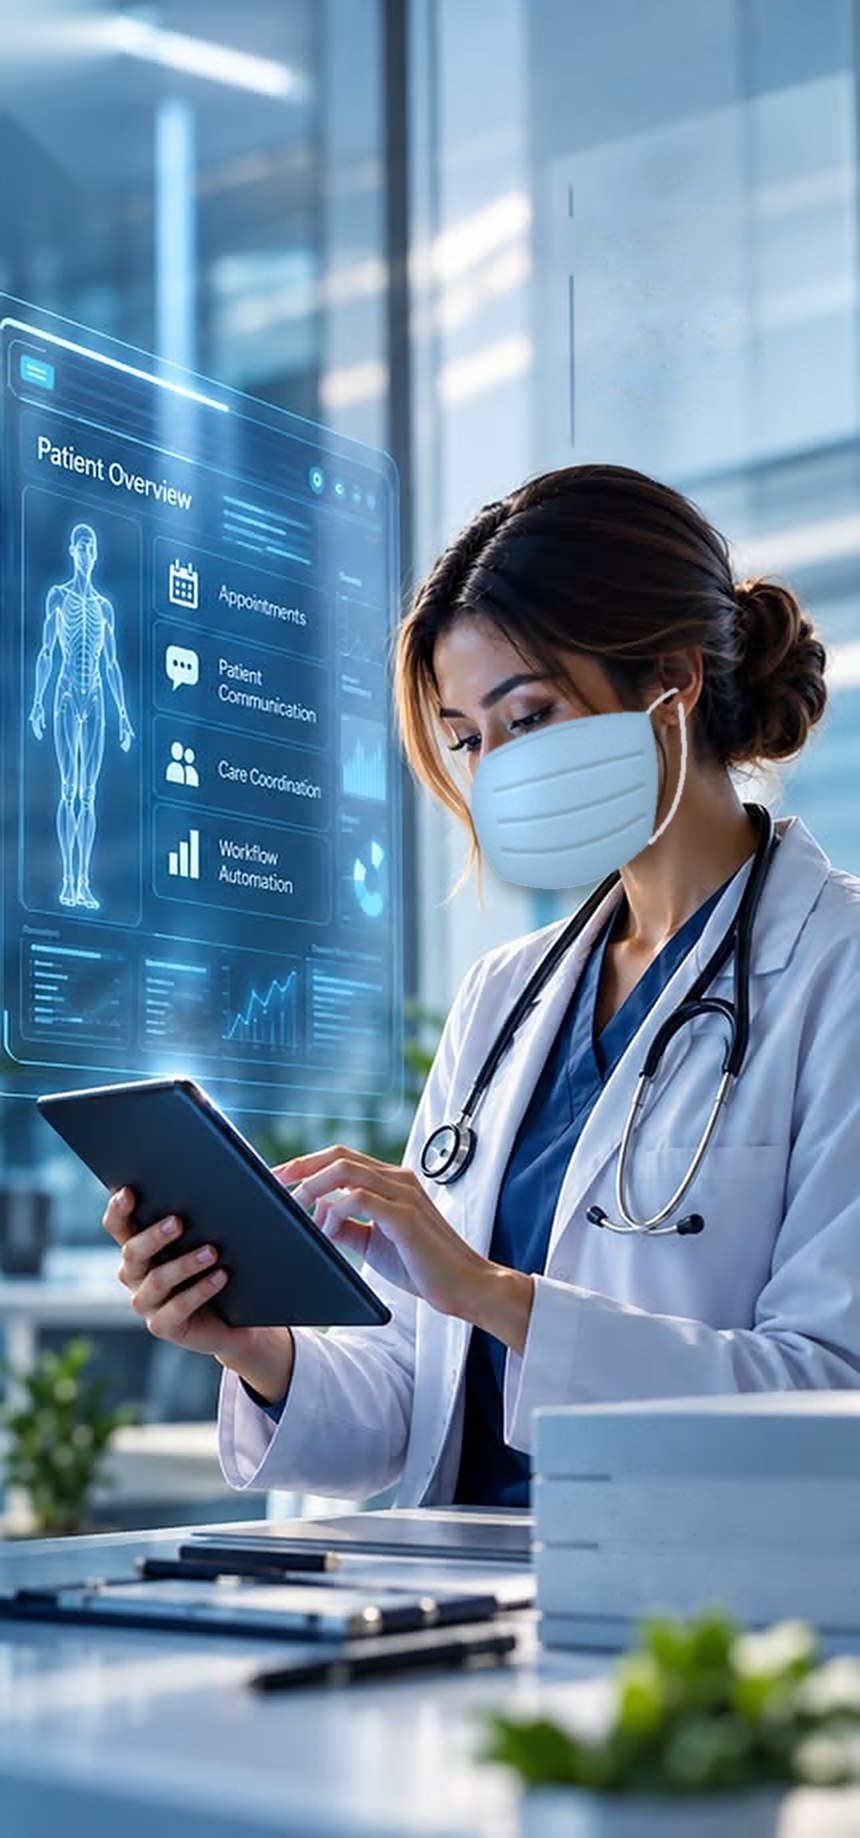
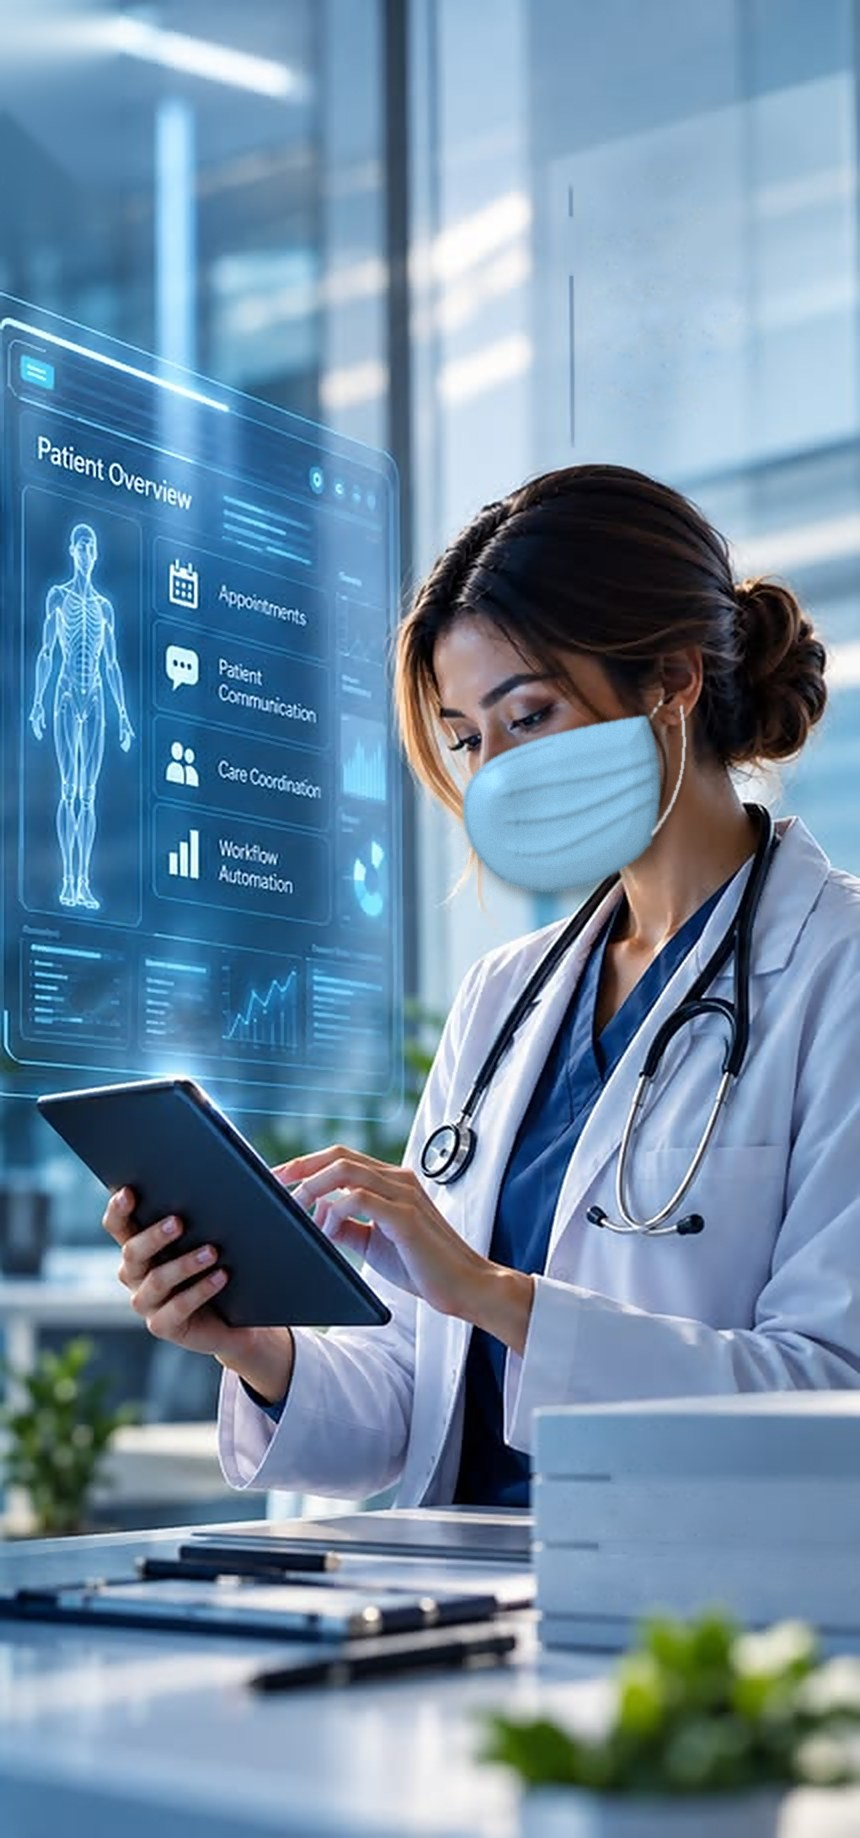
Make the face mask look more realistic
Redraw the mask as a lit 3D surface instead of a flat shape: a rounded
dome lifted over the nose, soft folded pleats that gather towards the
ear loop, shading from the window light, non-woven fabric texture,
stitched side hems, a nose-wire crease, contact shadows on the face and
neck, a thin elastic loop partly under the hair, and grain/softness
matched to the photo.

Claude-Session: https://claude.ai/code/session_01XAwcbFu3nbYNf1n8L2jrXr

Changed region(s): [[0.514, 0.3721, 0.8163, 0.4962]]

diff --git a/scripts/add-face-mask.py b/scripts/add-face-mask.py
@@ -1,87 +1,161 @@
 """
 Draws a surgical face mask over the doctor's nose, mouth and chin in the hero photo.
 
-    python3 scripts/add-face-mask.py <unmasked-photo.jpg> src/assets/photos/doctor.jpg
+    python3 scripts/add-face-mask.py <unmasked-photo.jpg> <output.jpg>
 
+The mask is modelled as a height field (a soft dome lifted over the nose, with folded
+pleats), lit from the window on the left, then given non-woven texture, stitched hems,
+contact shadows and an elastic ear loop, and finally softened to match the photo.
 Coordinates are for the 860x1838 doctor photo. Needs opencv-python and numpy.
 """
 import cv2, numpy as np, sys
+
 SRC, OUT = sys.argv[1], sys.argv[2]
 img = cv2.imread(SRC).astype(np.float32)
 H, W = img.shape[:2]
+yy, xx = np.mgrid[0:H, 0:W].astype(np.float32)
 
-def bez(p0, c, p1, n=60):
+
+def bez(p0, c, p1, n=120):
     t = np.linspace(0, 1, n)[:, None]
-    return (1 - t) ** 2 * np.array(p0) + 2 * (1 - t) * t * np.array(c) + t ** 2 * np.array(p1)
+    return (1 - t) ** 2 * np.array(p0, np.float32) + 2 * (1 - t) * t * np.array(c, np.float32) + t ** 2 * np.array(p1, np.float32)
 
-# mask outline (image coords) — face is in three-quarter view, tilted down-left
-L0, R0 = (484, 756), (648, 712)      # top: over the nose bridge -> towards the ear
-L1, R1 = (500, 878), (650, 842)      # bottom: under the chin -> jaw
-top    = bez(L0, (556, 712), R0)
-bottom = bez(L1, (585, 910), R1)
-left   = bez(L0, (452, 808), L1)     # bulges out over the nose
-right  = bez(R0, (666, 774), R1)
+
+def bez3(p0, c0, c1, p1, n=120):
+    t = np.linspace(0, 1, n)[:, None]
+    p0, c0, c1, p1 = (np.array(p, np.float32) for p in (p0, c0, c1, p1))
+    return (1 - t) ** 3 * p0 + 3 * (1 - t) ** 2 * t * c0 + 3 * (1 - t) * t ** 2 * c1 + t ** 3 * p1
+
+
+# ---------------- outline ----------------
+# three-quarter view, head tilted down-left. Top edge peaks over the nose bridge,
+# sags slightly across the cheek; bottom wraps under the chin and along the jaw.
+TL, TR = (482, 768), (646, 716)
+BL, BR = (502, 880), (650, 844)
+top = bez3(TL, (494, 752), (560, 728), TR)
+bottom = bez3(BL, (548, 906), (618, 884), BR)
+left = bez3(TL, (452, 790), (458, 850), BL)       # spans from the nose tip to the chin
+right = bez3(TR, (662, 750), (664, 812), BR)
 poly = np.vstack([top, right, bottom[::-1], left[::-1]]).astype(np.int32)
 
-alpha = np.zeros((H, W), np.float32)
-cv2.fillPoly(alpha, [poly], 1.0)
+inside = np.zeros((H, W), np.uint8)
+cv2.fillPoly(inside, [poly], 1, cv2.LINE_AA)
+dist = cv2.distanceTransform(inside, cv2.DIST_L2, 5)
 
-# ---- fabric colour with soft shading ----
-yy, xx = np.mgrid[0:H, 0:W].astype(np.float32)
-u = np.clip((xx - 450) / 230, 0, 1)            # 0 at the nose side, 1 at the ear side
-v = np.clip((yy - 700) / 200, 0, 1)
-base = np.array([238, 206, 164], np.float32)   # BGR light surgical blue
-light = 1.06 - 0.16 * u - 0.10 * v             # window light from the left/top
-# the fabric curves away under the chin and at the cheek
-dist = cv2.distanceTransform((alpha > 0).astype(np.uint8), cv2.DIST_L2, 5)
-edge_shade = 1 - 0.10 * np.exp(-dist / 10)
-# the nose pushes the fabric out: a soft highlight ridge near the profile side
-ridge = np.exp(-((xx - 512) ** 2) / (2 * 22 ** 2)) * np.exp(-((yy - 790) ** 2) / (2 * 45 ** 2))
-light = light + 0.10 * ridge
-fabric = base[None, None, :] * (light * edge_shade)[..., None]
+# ---------------- height field ----------------
+# rounded dome: steep near the edges, flat in the middle
+h = np.sqrt(np.clip(dist / 26.0, 0, 1)) * 10.0
+# the nose pushes the fabric out on the profile side
+h += 9.0 * np.exp(-(((xx - 500) / 26) ** 2 + ((yy - 790) / 34) ** 2))
+# the cheek side turns away from the camera
+h -= 4.0 * np.clip((xx - 560) / 90, 0, 1)
 
-# subtle weave noise so it doesn't look flat
-rng = np.random.default_rng(3)
-noise = cv2.GaussianBlur(rng.normal(0, 1, (H, W)).astype(np.float32), (0, 0), 0.7) * 3.0
-fabric += noise[..., None]
+# pleats: three folds that bunch together towards the ear loop
+pleat_lines = []
+for f, depth in ((0.27, 1.9), (0.50, 2.2), (0.73, 1.8)):
+    t = np.linspace(0.0, 1.0, 120)
+    tp = bez3(TL, (494, 752), (560, 728), TR)
+    bp = bez3(BL, (548, 906), (618, 884), BR)
+    # folds sit closer together near the ear (fabric gathered by the loop)
+    ff = f + (0.5 - f) * 0.28 * t[:, None]
+    line = tp + (bp - tp) * ff
+    line[:, 1] += 2.5 * np.sin(t * np.pi * 2.3 + f * 7)  # a little irregular, like real cloth
+    pleat_lines.append(line)
+    m = np.zeros((H, W), np.uint8)
+    cv2.polylines(m, [line.astype(np.int32)], False, 1, 1, cv2.LINE_AA)
+    d = cv2.distanceTransform(1 - m, cv2.DIST_L2, 5)
+    # asymmetric fold: sharp drop just below the crease, gentle slope above
+    below = (yy > np.interp(xx, line[:, 0], line[:, 1])).astype(np.float32)
+    fold = np.where(below > 0, np.exp(-(d / 3.0) ** 2), np.exp(-(d / 9.0) ** 2))
+    h += depth * fold * (inside > 0)
 
-# ---- pleats: three soft folds running across ----
-pleat_dark = np.zeros((H, W), np.float32)
-pleat_light = np.zeros((H, W), np.float32)
-for f in (0.30, 0.54, 0.76):
-    t = np.linspace(0.04, 0.97, 80)
-    tp = bez(L0, (556, 712), R0, 80)[(t * 79).astype(int)]
-    bp = bez(L1, (585, 910), R1, 80)[(t * 79).astype(int)]
-    line = (tp + (bp - tp) * f).astype(np.int32)
-    cv2.polylines(pleat_dark, [line], False, 1.0, 3, cv2.LINE_AA)
-    cv2.polylines(pleat_light, [line + np.array([0, 4])], False, 1.0, 2, cv2.LINE_AA)
-pleat_dark = cv2.GaussianBlur(pleat_dark, (0, 0), 1.6)
-pleat_light = cv2.GaussianBlur(pleat_light, (0, 0), 1.4)
-fabric *= (1 - 0.16 * pleat_dark)[..., None]
-fabric += (22 * pleat_light)[..., None]
+h = cv2.GaussianBlur(h, (0, 0), 1.2)
 
-# ---- nose wire along the top edge ----
+# ---------------- lighting ----------------
+gx = cv2.Sobel(h, cv2.CV_32F, 1, 0, ksize=3) / 8.0
+gy = cv2.Sobel(h, cv2.CV_32F, 0, 1, ksize=3) / 8.0
+n = np.dstack([-gx, -gy, np.ones_like(h)])
+n /= np.linalg.norm(n, axis=2, keepdims=True)
+L = np.array([-0.55, -0.55, 0.63], np.float32)   # window light: from the left, slightly above
+L /= np.linalg.norm(L)
+lambert = np.clip((n * L).sum(axis=2), 0, 1)
+V = np.array([0, 0, 1], np.float32)
+Hh = (L + V) / np.linalg.norm(L + V)
+spec = np.clip((n * Hh).sum(axis=2), 0, 1) ** 40   # soft sheen of non-woven fabric
+
+ao = 1 - 0.12 * np.exp(-dist / 5.0)              # edges tuck in against the face
+shade = (0.68 + 0.40 * lambert) * ao
+
+# surgical blue, a touch cooler where it faces the window, warmer near the chin (skin bounce)
+blue = np.array([240, 204, 146], np.float32)     # BGR
+warm = np.array([228, 204, 160], np.float32)
+mix = np.clip((yy - 800) / 90, 0, 1)[..., None] * 0.2
+color = blue * (1 - mix) + warm * mix
+fabric = color * shade[..., None] + 22 * spec[..., None]
+
+# non-woven texture: fine speckle + faint fibrous streaks
+rng = np.random.default_rng(7)
+speck = cv2.GaussianBlur(rng.normal(0, 1, (H, W)).astype(np.float32), (0, 0), 0.6)
+streak = cv2.GaussianBlur(rng.normal(0, 1, (H, W)).astype(np.float32), (0, 0), sigmaX=4, sigmaY=0.8)
+fabric += (2.6 * speck + 1.8 * streak)[..., None]
+
+# ---------------- hems: stitched binding along the sides and top ----------------
+hem = np.zeros((H, W), np.float32)
+cv2.polylines(hem, [right.astype(np.int32)], False, 1.0, 14, cv2.LINE_AA)
+cv2.polylines(hem, [left.astype(np.int32)], False, 1.0, 6, cv2.LINE_AA)
+hem = cv2.GaussianBlur(hem, (0, 0), 1.0) * (inside > 0)
+fabric *= (1 - 0.07 * hem)[..., None]
+stitch = np.zeros((H, W), np.float32)
+for edge, off in ((right, -7), (left, 3)):
+    pts = edge.copy()
+    pts[:, 0] += off
+    for i in range(4, len(pts) - 4, 5):
+        cv2.line(stitch, tuple(pts[i].astype(int)), tuple(pts[i + 2].astype(int)), 1.0, 1, cv2.LINE_AA)
+stitch = cv2.GaussianBlur(stitch, (0, 0), 0.6) * (inside > 0)
+fabric *= (1 - 0.12 * stitch)[..., None]
+
+# nose wire: a slight crease and highlight just under the top edge
 wire = np.zeros((H, W), np.float32)
-cv2.polylines(wire, [(top[3:40] + np.array([0, 7])).astype(np.int32)], False, 1.0, 2, cv2.LINE_AA)
+cv2.polylines(wire, [(top[8:70] + np.array([1, 8])).astype(np.int32)], False, 1.0, 2, cv2.LINE_AA)
 wire = cv2.GaussianBlur(wire, (0, 0), 1.0)
-fabric *= (1 - 0.10 * wire)[..., None]
+fabric = fabric * (1 - 0.10 * wire)[..., None]
+rim = np.exp(-dist / 1.6) * (inside > 0) * np.clip((560 - xx) / 80, 0, 1)
+fabric += (16 * rim)[..., None]                   # window light catching the near edge
 
-# ---- soft shadow cast on the neck/jaw under the mask ----
-sh = np.zeros((H, W), np.float32)
-cv2.fillPoly(sh, [poly + np.array([6, 12])], 1.0)
-sh = cv2.GaussianBlur(sh, (0, 0), 9) * (1 - alpha)
-img *= (1 - 0.35 * sh)[..., None]
+# ---------------- shadows the mask casts on the face ----------------
+shadow = np.zeros((H, W), np.float32)
+cv2.fillPoly(shadow, [poly + np.array([7, 9])], 1.0, cv2.LINE_AA)
+shadow = cv2.GaussianBlur(shadow, (0, 0), 7) * (1 - inside)
+contact = np.zeros((H, W), np.float32)
+cv2.polylines(contact, [top.astype(np.int32) + np.array([0, -2])], False, 1.0, 3, cv2.LINE_AA)
+contact = cv2.GaussianBlur(contact, (0, 0), 2.5) * (1 - inside)
+img *= (1 - 0.38 * shadow - 0.25 * contact)[..., None]
 
-# ---- composite with a feathered edge ----
-a = cv2.GaussianBlur(alpha, (0, 0), 1.1)[..., None]
-img = img * (1 - a) + fabric * a
+# ---------------- composite ----------------
+alpha = cv2.GaussianBlur(inside.astype(np.float32), (0, 0), 0.9)[..., None]
+out = img * (1 - alpha) + fabric * alpha
 
-# ---- ear loops ----
-loops = np.zeros((H, W), np.float32)
-cv2.polylines(loops, [bez(R0, (664, 694), (676, 690)).astype(np.int32)], False, 1.0, 3, cv2.LINE_AA)
-cv2.polylines(loops, [bez(R1, (696, 800), (680, 704)).astype(np.int32)], False, 1.0, 3, cv2.LINE_AA)
-loops = cv2.GaussianBlur(loops, (0, 0), 0.8)[..., None]
-img = img * (1 - 0.85 * loops) + np.array([240, 236, 232], np.float32) * 0.85 * loops
+# ---------------- elastic ear loop ----------------
+loop = np.zeros((H, W), np.float32)
+upper = bez((646, 724), (660, 700), (674, 693), 60)
+lower = bez((652, 834), (694, 786), (681, 706), 80)
+cv2.polylines(loop, [upper.astype(np.int32)], False, 1.0, 2, cv2.LINE_AA)
+cv2.polylines(loop, [lower.astype(np.int32)], False, 1.0, 2, cv2.LINE_AA)
+loop = cv2.GaussianBlur(loop, (0, 0), 0.7)
+# hair falls over part of the loop near the ear
+hair = (cv2.cvtColor(np.clip(img, 0, 255).astype(np.uint8), cv2.COLOR_BGR2GRAY) < 70).astype(np.float32)
+loop *= 1 - 0.8 * cv2.GaussianBlur(hair, (0, 0), 1) * (yy < 760)
+loop_shadow = cv2.GaussianBlur(np.roll(loop, (3, 2), axis=(0, 1)), (0, 0), 1.6)
+out *= (1 - 0.25 * loop_shadow)[..., None]
+loop_col = np.array([226, 222, 218], np.float32) * (0.78 + 0.22 * np.clip((700 - xx) / 60 + 1, 0, 1))[..., None]
+out = out * (1 - 0.9 * loop[..., None]) + loop_col * 0.9 * loop[..., None]
 
-cv2.imwrite(OUT, np.clip(img, 0, 255).astype(np.uint8), [cv2.IMWRITE_JPEG_QUALITY, 88])
+# ---------------- match the photo: softness and grain ----------------
+region = cv2.dilate(inside, np.ones((25, 25), np.uint8)).astype(np.float32)
+region = cv2.GaussianBlur(region, (0, 0), 6)[..., None]
+soft = cv2.GaussianBlur(out, (0, 0), 0.75)
+grain = rng.normal(0, 2.2, (H, W, 1)).astype(np.float32)
+out = out * (1 - region) + (soft + grain) * region
+
+cv2.imwrite(OUT, np.clip(out, 0, 255).astype(np.uint8), [cv2.IMWRITE_JPEG_QUALITY, 90])
 print('ok')
